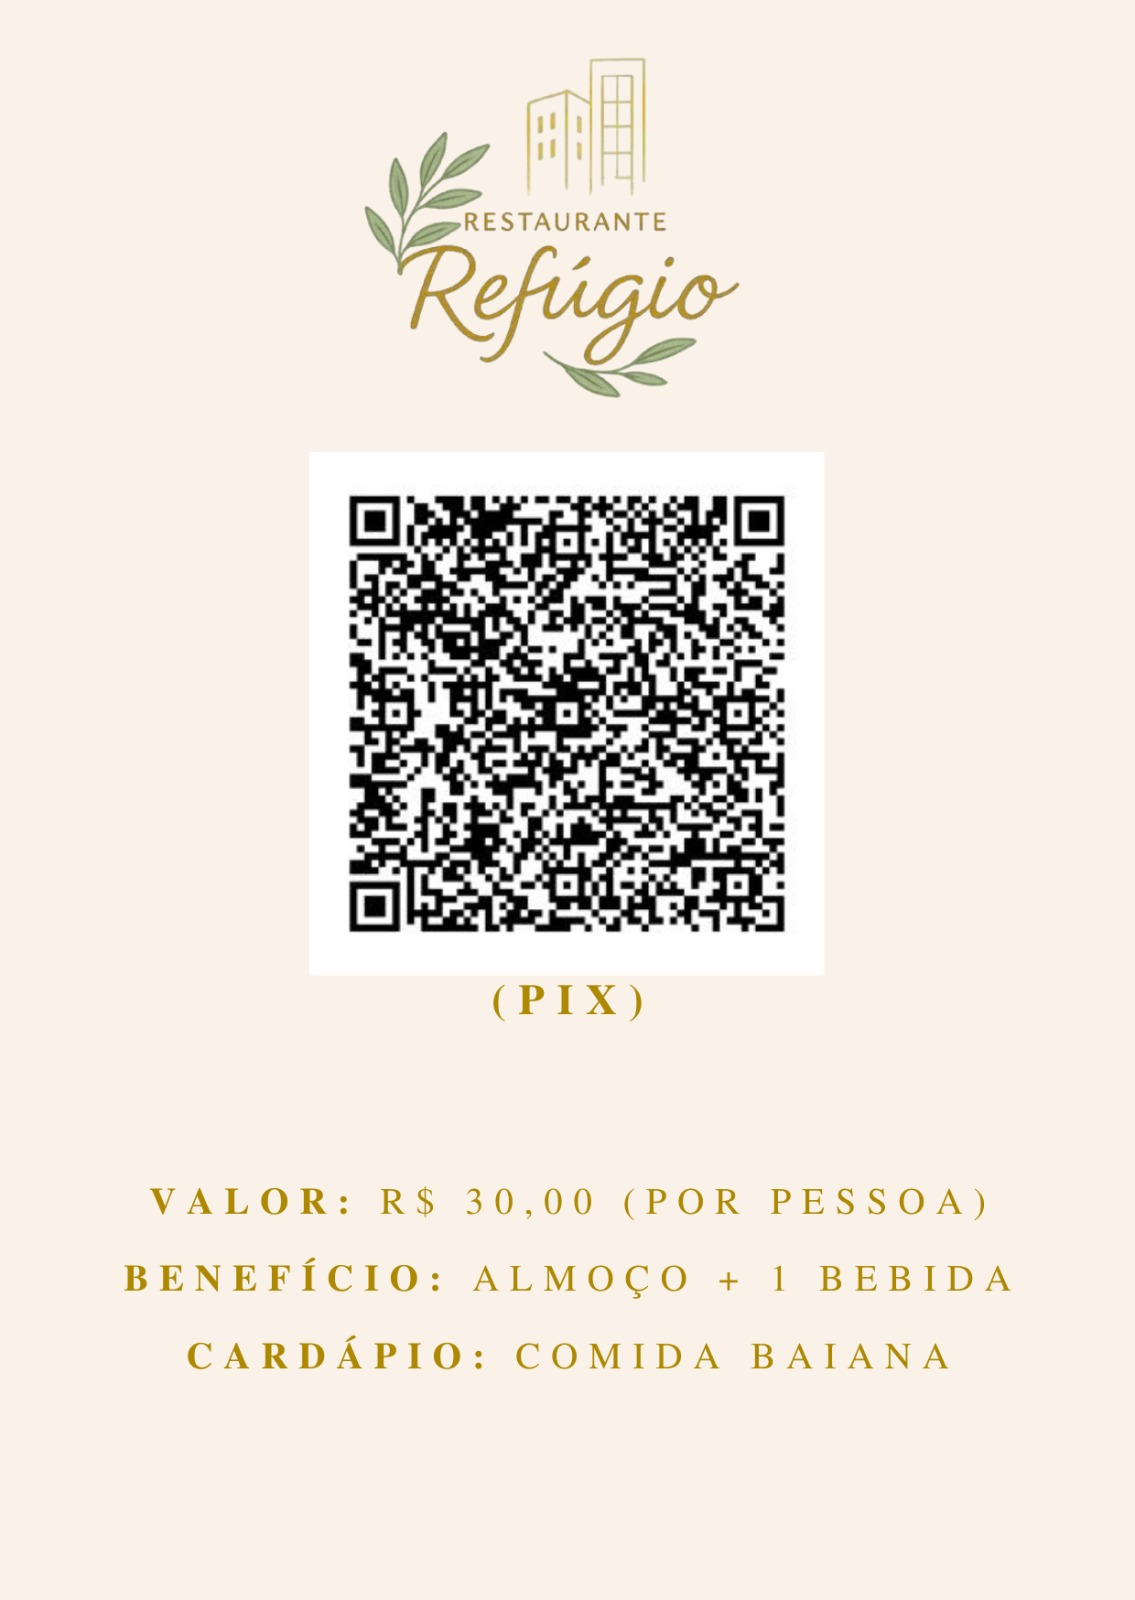
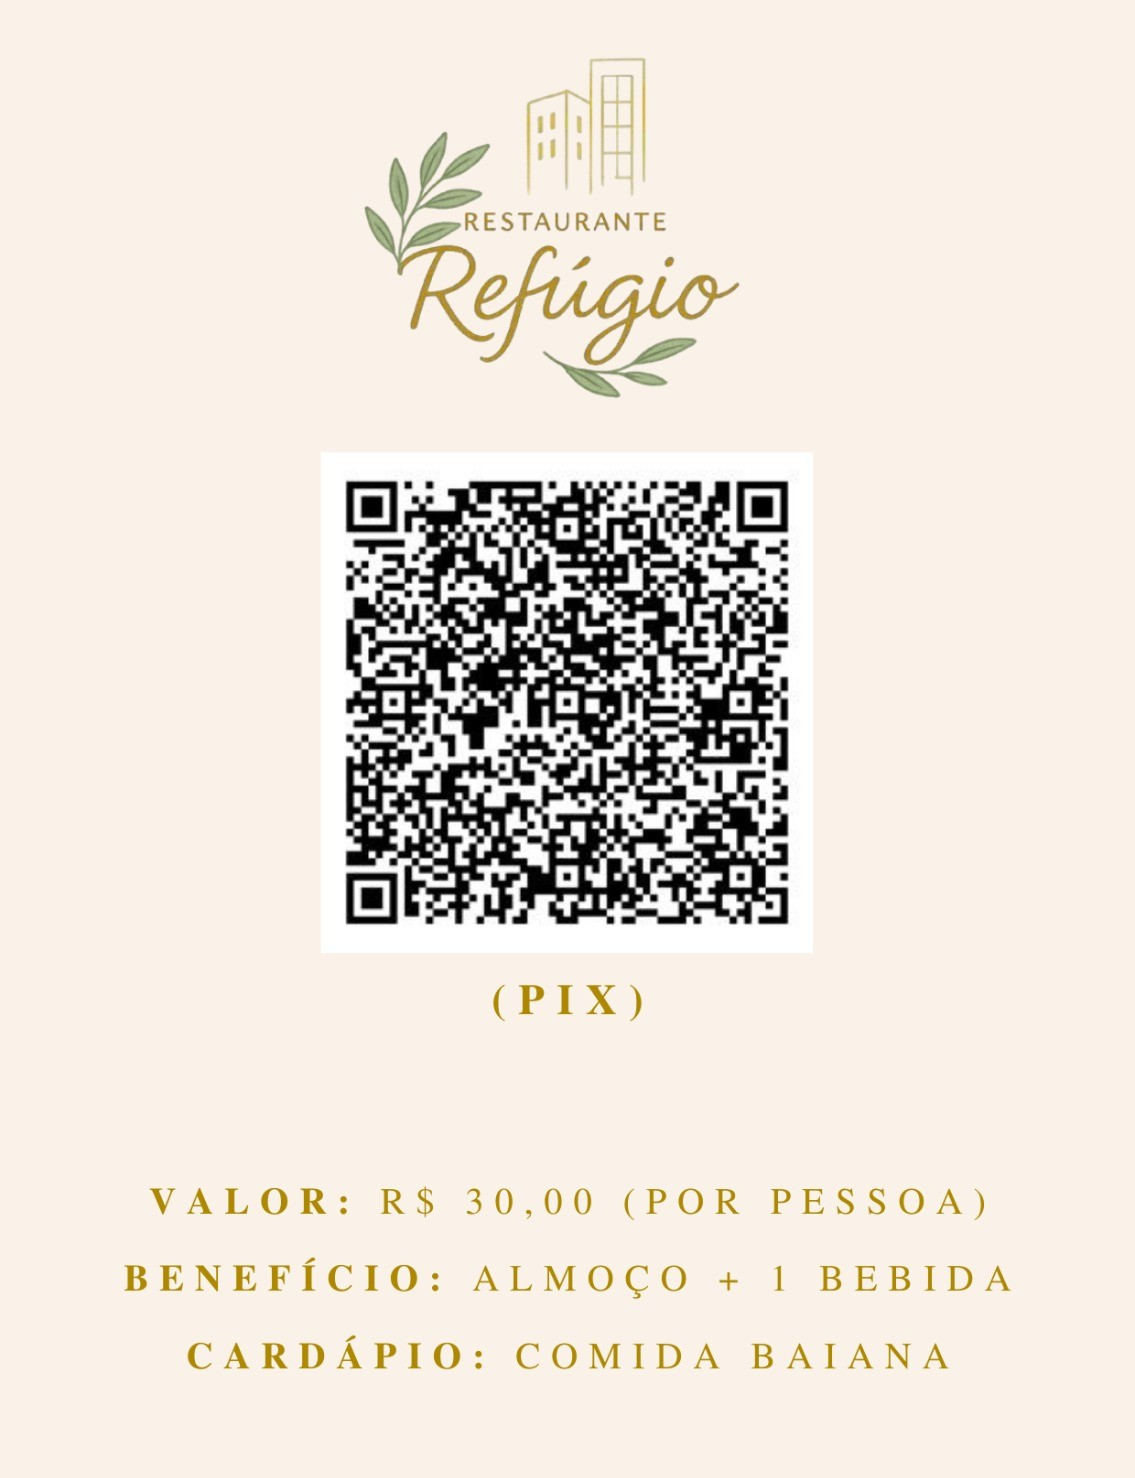
troca do pix

diff --git a/index.html b/index.html
@@ -5,14 +5,14 @@
     <meta name="viewport" content="width=teste, initial-scale=1.0">
     <title>Convite</title>
     <link rel="stylesheet" href="style.css">
+    <link rel="icon" href="assets/logo.png">
 </head>
 <body>
     
     
         <div id="container">
         <img id="central-image" src="assets/rest.jpeg" alt="Imagem do convite">
-        <br>
-        <p id="pix">PIX: <span id="pix-code">68f46e84-1277-499e-ab5a-3f19e1b6e0c9</span></p>
+        <p id="pix">PIX: <span id="pix-code">restauranterefugiossa@gmail.com</span></p>
         <button id="copy-btn">Copiar código</button>
         </div>
 
